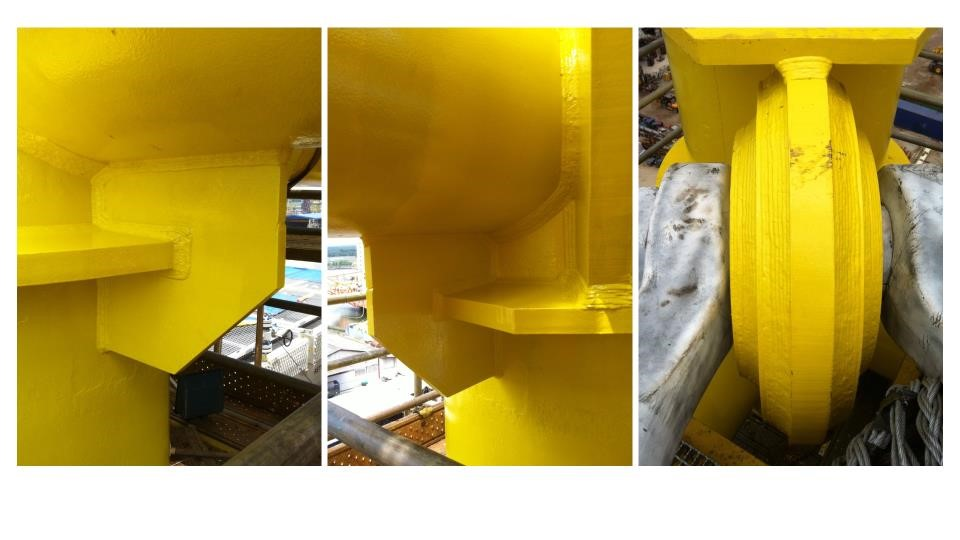
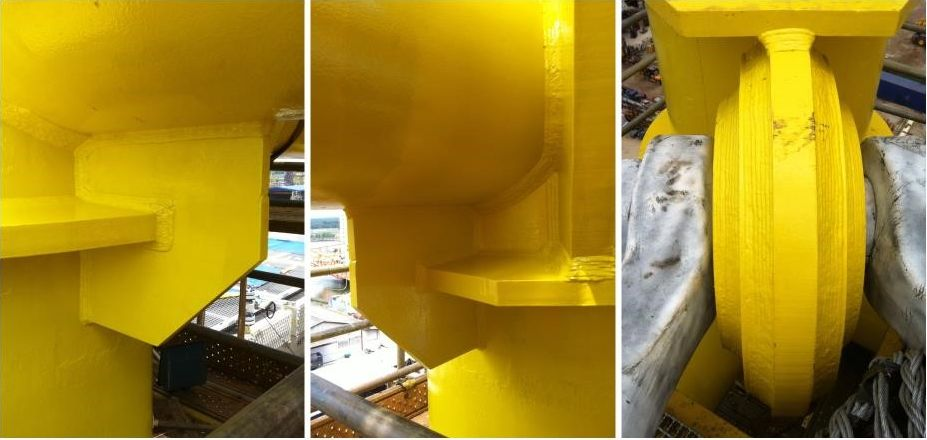
Add README + Action workflow
add build artefacts

fix permissions

Updates to slidepack

Images optimised

rm fonts; update workflow

update workflow

diff --git a/README.md b/README.md
@@ -1,0 +1,6 @@
+# Offshore lifts
+
+This is a talk I gave at work in September 2024. This repository contains the source files used to produce a slide pack. Please find it under the [Releases][r] section.
+
+[r]: https://github.com/ckunte/offshore-lifts/releases "Download the slidepack"
+
